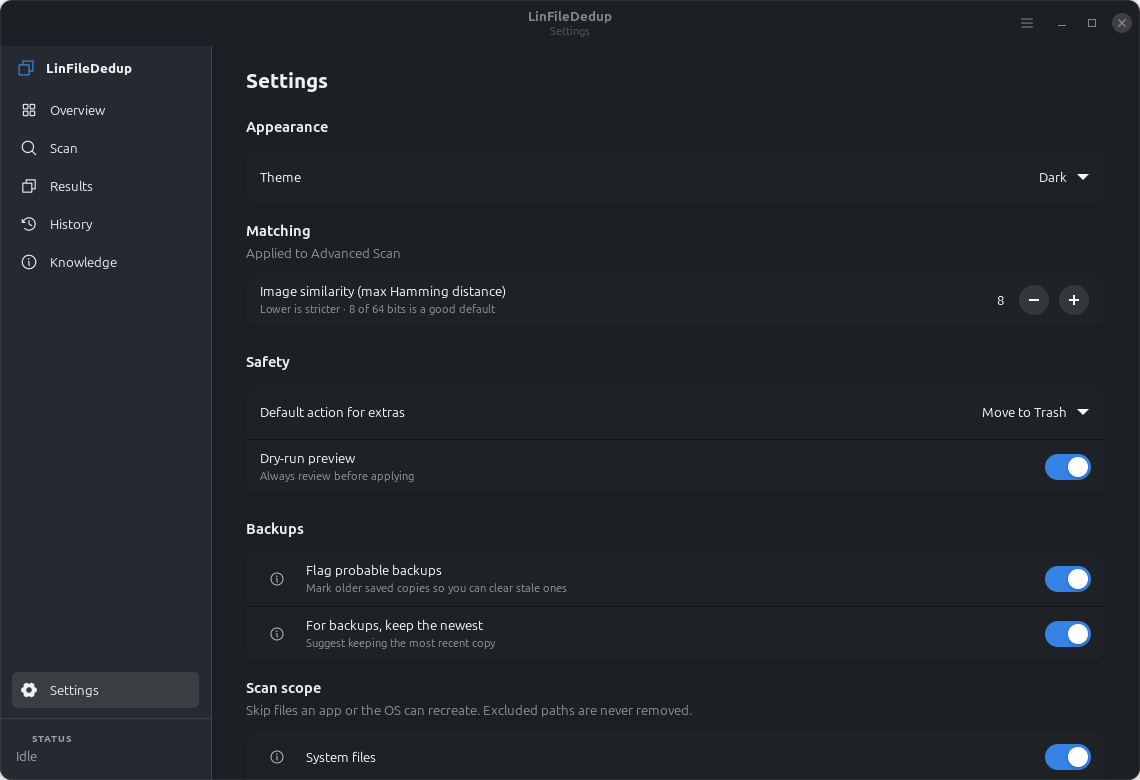
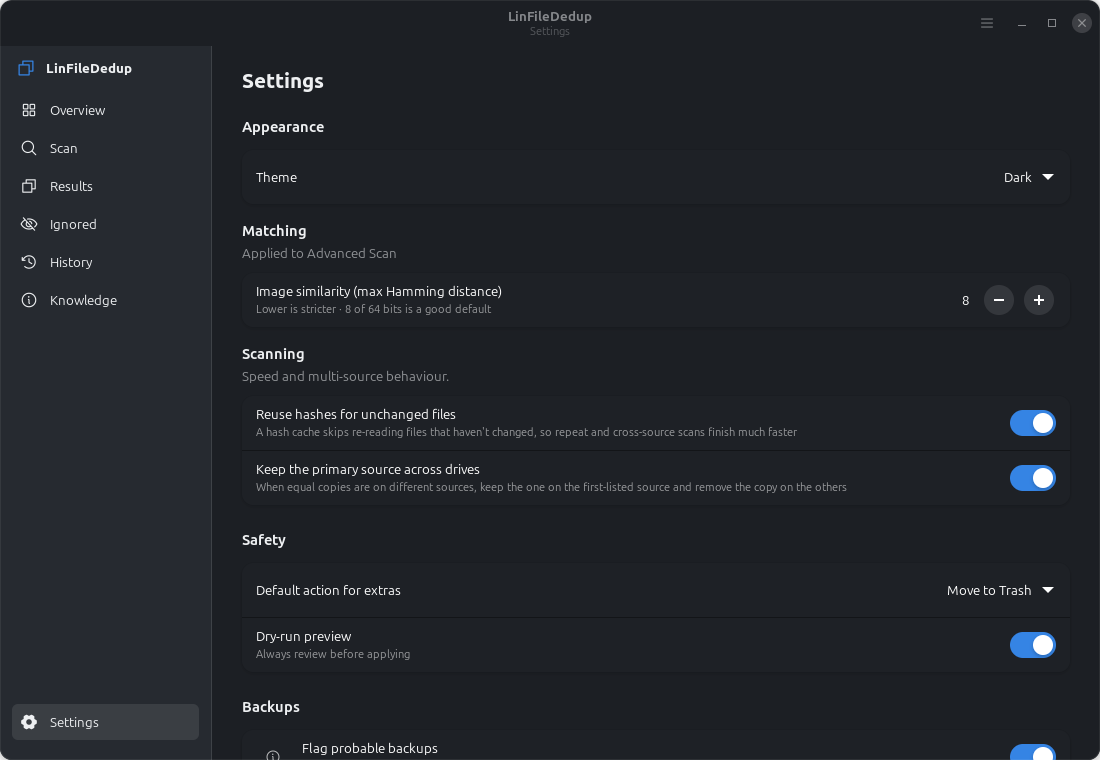
Settings: expose hash-cache and keep-primary-source toggles; Scan-page mockup
- New "Scanning" group in Settings: "Reuse hashes for unchanged files"
  (hash cache) and "Keep the primary source across drives", both default
  on. settings.use_hash_cache / settings.keep_primary_source flow into
  ScanOptions; the scanner only biases the keeper to the primary source
  when enabled.
- docs/mockups/scan-page.html: the full latest Scan page (multi-source
  setup + per-source ring list); referenced from the README. Refreshed the
  settings screenshot. Test: keep_primary_source=False falls back to the
  normal keeper policy.

diff --git a/docs/mockups/scan-page.html b/docs/mockups/scan-page.html
@@ -1,0 +1,164 @@
+<title>Scan Page</title>
+<meta name="description" content="Mockup of the latest LinFileDedup Scan page — multi-source setup and the per-source scanning ring list.">
+<style>
+  :root{
+    color-scheme: dark;
+    --bg:#1c1f24; --card:#1e2126; --card2:#24272e; --raise:#2a2e35; --sidebar:#262a30;
+    --line:rgba(255,255,255,.09); --line2:rgba(255,255,255,.14);
+    --fg:#eef0f2; --dim:#9aa0ab; --mut:#6f7781;
+    --accent:#3584e4; --accent2:#78aeea; --green:#2ec27e; --red:#fe3b4e; --orange:#ff9e2c;
+    --mono:"JetBrains Mono",ui-monospace,"Roboto Mono",monospace; --sans:"Inter",system-ui,"Cantarell",sans-serif;
+  }
+  *{box-sizing:border-box}
+  body{margin:0;background:var(--bg);color:var(--fg);font-family:var(--sans);line-height:1.5}
+  .wrap{max-width:1000px;margin:0 auto;padding-block:30px;padding-inline:16px}
+  .kicker{font-size:12px;letter-spacing:.14em;text-transform:uppercase;color:var(--accent);font-weight:700;margin:0 0 6px}
+  h1{font-size:26px;font-weight:800;margin:0 0 6px}
+  .sub{color:var(--dim);margin:0;font-size:15px}
+  .label{font-size:12px;letter-spacing:.1em;text-transform:uppercase;color:var(--mut);font-weight:700;margin:26px 0 8px}
+
+  .app{display:grid;grid-template-columns:150px 1fr;border:1px solid var(--line);border-radius:14px;overflow:hidden;background:var(--card)}
+  .side{background:var(--sidebar);padding:14px 10px;border-right:1px solid var(--line);font-size:13px}
+  .brand{font-weight:800;margin:4px 8px 14px;display:flex;align-items:center;gap:8px}
+  .brand .dot{width:16px;height:16px;border-radius:5px;background:linear-gradient(135deg,#4a90e6,#2f74cf)}
+  .side a{display:flex;gap:9px;align-items:center;padding:7px 9px;border-radius:7px;color:var(--dim);text-decoration:none;margin-bottom:2px}
+  .side a.on{background:rgba(255,255,255,.07);color:var(--fg)}
+  .main{padding:18px 20px}
+  .ptitle{font-size:22px;font-weight:800;margin:0 0 2px}
+  .pnote{color:var(--dim);font-size:13px;margin:0 0 16px}
+
+  .toolbar{display:flex;align-items:center;gap:10px;margin-bottom:16px}
+  .seg{display:inline-flex;border:1px solid var(--line2);border-radius:8px;overflow:hidden}
+  .seg b{padding:6px 12px;font-size:13px;background:var(--raise)}
+  .seg span{padding:6px 12px;font-size:13px;color:var(--dim)}
+  .spacer{flex:1}
+  .btn{border:1px solid var(--line2);background:var(--raise);color:var(--fg);border-radius:8px;padding:7px 14px;font-size:13px;font-weight:600}
+  .btn.primary{background:var(--accent);border-color:transparent;color:#fff}
+  .btn.stop{background:var(--red);border-color:transparent;color:#fff}
+
+  .panel{border:1px solid var(--line);border-radius:12px;background:var(--card2);padding:16px;margin-bottom:14px}
+  .panel h3{margin:0 0 3px;font-size:14px}
+  .panel .hint{color:var(--dim);font-size:12.5px;margin:0 0 10px}
+  .src{display:grid;grid-template-columns:28px 1fr auto auto;align-items:center;gap:12px;padding:10px 4px;border-top:1px solid var(--line)}
+  .src:first-of-type{border-top:0}
+  .src .ic{width:28px;height:28px;border-radius:8px;display:grid;place-items:center;background:rgba(255,255,255,.06);font-size:14px}
+  .src .nm{font-family:var(--mono);font-size:12.5px}
+  .src .meta{color:var(--mut);font-size:12px}
+  .src .rm{color:var(--dim);font-size:12px;font-weight:600}
+  .addrow{display:flex;gap:8px;margin-top:10px}
+  .opt{display:flex;align-items:center;gap:12px;padding:12px 2px;border-top:1px solid var(--line)}
+  .opt:first-child{border-top:0}
+  .opt .t{flex:1}.opt .t b{font-weight:600;font-size:14px}.opt .t small{display:block;color:var(--dim);font-size:12px}
+  .sw{width:40px;height:22px;border-radius:999px;background:var(--accent);position:relative;flex:0 0 40px}
+  .sw.off{background:#3a3f47}.sw i{position:absolute;top:2px;left:20px;width:18px;height:18px;border-radius:50%;background:#fff}
+  .sw.off i{left:2px}
+  .ff{display:flex;align-items:center;gap:12px;margin-top:4px}
+  .chk{width:17px;height:17px;border-radius:4px;background:var(--accent);display:inline-grid;place-items:center;color:#fff;font-size:11px}
+  .ext{flex:1;background:#15171b;border:1px solid var(--line2);border-radius:7px;padding:7px 10px;color:var(--mut);font-size:12.5px}
+
+  /* ring list (scanning) */
+  .row{display:grid;grid-template-columns:96px 1fr;gap:16px;align-items:center;padding:14px;border:1px solid var(--line);border-radius:12px;background:var(--card2);margin-bottom:12px}
+  .ring{width:84px;height:84px;position:relative;justify-self:center}
+  .ring svg{transform:rotate(-90deg)} .ring .pct{position:absolute;inset:0;display:grid;place-items:center;font-size:17px;font-weight:700}
+  .ring .pct small{font-size:11px;color:var(--dim)}
+  .col{min-width:0}
+  .path{font-family:var(--mono);font-size:12.5px;color:var(--fg);white-space:nowrap;overflow:hidden;text-overflow:ellipsis}
+  .name{font-family:var(--mono);font-size:12.5px;color:var(--fg);margin:1px 0 0;white-space:nowrap;overflow:hidden;text-overflow:ellipsis}
+  .name .x{color:var(--orange)}
+  .bar{height:2px;width:50%;border-radius:2px;background:#15171b;overflow:hidden;position:relative;margin:8px 0 6px}
+  .bar i{position:absolute;top:0;bottom:0;width:34%;border-radius:2px;background:linear-gradient(90deg,#2f74cf,#78aeea)}
+  .bar.fast i{animation:scan 1s linear infinite}.bar.slow i{width:24%;animation:scan 3.2s linear infinite}
+  .bar.full i{position:static;width:100%;animation:none}
+  @keyframes scan{0%{left:-34%}100%{left:100%}}
+  .note{color:var(--mut);font-size:11.5px}
+  .done .name{color:var(--green)}
+  .cap{color:var(--mut);font-size:12px;margin-top:6px}
+  .mini{font-size:11px;color:var(--mut);margin-top:26px;border-top:1px solid var(--line);padding-top:14px}
+</style>
+
+<div class="wrap">
+  <p class="kicker">LinFileDedup · Mockup</p>
+  <h1>The Scan page — latest layout</h1>
+  <p class="sub">A preview for review — <b>not the live app</b>. Shows the multi-source setup and the per-source scanning ring list with the latest styling.</p>
+
+  <svg width="0" height="0"><defs>
+    <linearGradient id="grad" x1="0" y1="0" x2="1" y2="1"><stop offset="0" stop-color="#fe3b4e"/><stop offset="1" stop-color="#ff9e2c"/></linearGradient>
+  </defs></svg>
+
+  <p class="label">① Setup — choose sources &amp; options</p>
+  <div class="app">
+    <nav class="side">
+      <div class="brand"><span class="dot"></span>LinFileDedup</div>
+      <a>▦ Overview</a><a class="on">🔍 Scan</a><a>▤ Results</a><a>⦸ Ignored</a><a>↺ History</a><a>ⓘ Knowledge</a>
+    </nav>
+    <div class="main">
+      <div class="toolbar">
+        <div class="seg"><b>Simple Scan</b><span>Advanced Scan</span></div>
+        <span class="spacer"></span>
+        <button class="btn primary">Start scan</button>
+      </div>
+      <div class="panel">
+        <h3>Sources to scan</h3>
+        <p class="hint">Duplicates are found across every source — the copy on the first-listed (primary) source is kept.</p>
+        <div class="src"><span class="ic">🖿</span><span class="nm">/home/user</span><span class="meta">primary · 1.9 TB</span><span class="rm">Remove</span></div>
+        <div class="src"><span class="ic">🖴</span><span class="nm">/media/user/USB-BACKUP</span><span class="meta">removable</span><span class="rm">Remove</span></div>
+        <div class="src"><span class="ic">🖴</span><span class="nm">/mnt/photos-external</span><span class="meta">drive</span><span class="rm">Remove</span></div>
+        <div class="addrow"><button class="btn">＋ Add source…</button><button class="btn">Add drive…</button></div>
+      </div>
+      <div class="panel">
+        <div class="opt"><div class="t"><b>Find image near-duplicates</b><small>Perceptual hash, within the similarity threshold</small></div><span class="sw"><i></i></span></div>
+        <div class="opt"><div class="t"><b>Include hidden files</b><small>Dotfiles and dot-folders</small></div><span class="sw off"><i></i></span></div>
+        <div class="opt"><div class="t"><b>Minimum file size (MB)</b></div><span style="font-variant-numeric:tabular-nums;color:var(--dim)">1  − +</span></div>
+      </div>
+      <div class="panel">
+        <h3>File types to scan</h3>
+        <div class="ff"><span class="chk">✓</span><b style="font-size:13px">All Files</b><span style="color:var(--dim);font-size:12.5px">Enter Extension</span><span class="ext">.bak, .csv, .txt, .idx</span><span style="color:var(--dim)">ⓘ</span></div>
+      </div>
+    </div>
+  </div>
+
+  <p class="label">② Scanning — a ring per source (all stay until the whole scan finishes, then fade together)</p>
+  <div class="app">
+    <nav class="side">
+      <div class="brand"><span class="dot"></span>LinFileDedup</div>
+      <a>▦ Overview</a><a class="on">🔍 Scan</a><a>▤ Results</a><a>⦸ Ignored</a><a>↺ History</a><a>ⓘ Knowledge</a>
+    </nav>
+    <div class="main">
+      <div class="toolbar"><div class="ptitle">Scanning 3 sources…</div><span class="spacer"></span><button class="btn stop">Stop</button></div>
+
+      <div class="row done">
+        <div class="ring"><svg width="84" height="84" viewBox="0 0 84 84"><circle cx="42" cy="42" r="35" fill="none" stroke="rgba(255,255,255,.1)" stroke-width="7"/><circle cx="42" cy="42" r="35" fill="none" stroke="#34cd88" stroke-width="7" stroke-linecap="round" stroke-dasharray="220" stroke-dashoffset="0"/></svg><div class="pct">100<small>%</small></div></div>
+        <div class="col">
+          <div class="path">/home/user/Pictures/2026_05_19/PXL_20260515_091432.jpg</div>
+          <div class="name">Done — 58,310 files scanned</div>
+          <div class="bar full"><i style="background:#2bbd78"></i></div>
+          <div class="note">/home/user · complete</div>
+        </div>
+      </div>
+
+      <div class="row">
+        <div class="ring"><svg width="84" height="84" viewBox="0 0 84 84"><circle cx="42" cy="42" r="35" fill="none" stroke="rgba(255,255,255,.1)" stroke-width="7"/><circle cx="42" cy="42" r="35" fill="none" stroke="url(#grad)" stroke-width="7" stroke-linecap="round" stroke-dasharray="220" stroke-dashoffset="70"/></svg><div class="pct">68<small>%</small></div></div>
+        <div class="col">
+          <div class="path">/media/user/USB-BACKUP/DCIM/Camera/PXL_20260515_135337617.MP.mp4</div>
+          <div class="name">PXL_20260515_135337617.MP<span class="x">.mp4</span></div>
+          <div class="bar slow"><i></i></div>
+          <div class="note">Note: large files may take several minutes to scan…</div>
+        </div>
+      </div>
+
+      <div class="row">
+        <div class="ring"><svg width="84" height="84" viewBox="0 0 84 84"><circle cx="42" cy="42" r="35" fill="none" stroke="rgba(255,255,255,.1)" stroke-width="7"/><circle cx="42" cy="42" r="35" fill="none" stroke="url(#grad)" stroke-width="7" stroke-linecap="round" stroke-dasharray="220" stroke-dashoffset="180"/></svg><div class="pct">18<small>%</small></div></div>
+        <div class="col">
+          <div class="path">/mnt/photos-external/2024/thumbs/IMG_0412.jpg</div>
+          <div class="name">IMG_0412<span class="x">.jpg</span></div>
+          <div class="bar fast"><i></i></div>
+          <div class="note">Note: large files may take several minutes to scan…</div>
+        </div>
+      </div>
+
+      <p class="cap">Ring % centred · file name in the same mono font as the path (extension in orange) · 2px blue activity bar at half width.</p>
+    </div>
+  </div>
+
+  <p class="mini">Mockup only. Matches the live Scan page. Settings now exposes two toggles that affect this: <b>Reuse hashes for unchanged files</b> (hash cache, faster re-scans) and <b>Keep the primary source across drives</b>. Design notes: <code>docs/CONCEPT-MULTISOURCE.md</code>, <code>docs/CONCEPT-SCAN-RINGS.md</code>.</p>
+</div>

diff --git a/src/linfilededuplication/ui/pages/settings.py b/src/linfilededuplication/ui/pages/settings.py
@@ -40,6 +40,25 @@ class SettingsPage(BasePage):
         matching.add(self.hamming_row)
         self.add(matching)
 
+        scanning = Adw.PreferencesGroup(
+            title=_("Scanning"),
+            description=_("Speed and multi-source behaviour."))
+        self.cache_row = Adw.SwitchRow(
+            title=_("Reuse hashes for unchanged files"),
+            subtitle=_("A hash cache skips re-reading files that haven't changed, so repeat and "
+                       "cross-source scans finish much faster"))
+        self.cache_row.set_active(getattr(s, "use_hash_cache", True))
+        self.cache_row.connect("notify::active", self._on_cache)
+        scanning.add(self.cache_row)
+        self.primary_row = Adw.SwitchRow(
+            title=_("Keep the primary source across drives"),
+            subtitle=_("When equal copies are on different sources, keep the one on the "
+                       "first-listed source and remove the copy on the others"))
+        self.primary_row.set_active(getattr(s, "keep_primary_source", True))
+        self.primary_row.connect("notify::active", self._on_primary)
+        scanning.add(self.primary_row)
+        self.add(scanning)
+
         safety = Adw.PreferencesGroup(title=_("Safety"))
         self.action_row = Adw.ComboRow(title=_("Default action for extras"))
         self.action_row.set_model(Gtk.StringList.new([_("Move to Trash"), _("Hard-link")]))
@@ -100,6 +119,14 @@ class SettingsPage(BasePage):
 
     def _on_dry(self, *_a) -> None:
         self.app.settings.dry_run = self.dry_row.get_active()
+        self._save()
+
+    def _on_cache(self, *_a) -> None:
+        self.app.settings.use_hash_cache = self.cache_row.get_active()
+        self._save()
+
+    def _on_primary(self, *_a) -> None:
+        self.app.settings.keep_primary_source = self.primary_row.get_active()
         self._save()
 
     def _on_backup(self, *_a) -> None:

diff --git a/tests/core/test_scanner.py b/tests/core/test_scanner.py
@@ -150,3 +150,19 @@ def test_per_source_progress_events_emitted(tmp_path):
     # every source settles at 100% (done == total) by the end
     final = {e.source: e for e in per_source if e.total and e.done == e.total}
     assert {str(a), str(b)} <= set(final)
+
+
+def test_keep_primary_source_can_be_disabled(tmp_path):
+    a = tmp_path / "disk"; a.mkdir()
+    b = tmp_path / "backup"; b.mkdir()
+    data = b"same" * 500
+    # make the copy on the SECOND source newer-looking by name so, without source preference,
+    # the primary isn't automatically the keeper
+    (a / "photo (1).jpg").write_bytes(data)      # derived name on primary
+    (b / "photo.jpg").write_bytes(data)          # original name on backup
+    opts = ScanOptions(roots=[str(a), str(b)], find_images=False, min_size=1,
+                       keep_primary_source=False)
+    groups = [e.group for e in _collect(opts) if isinstance(e, events.GroupFound)]
+    assert len(groups) == 1
+    # with source preference OFF, the non-derived name wins -> the backup copy is kept
+    assert groups[0].keeper.path.startswith(str(b))

diff --git a/src/linfilededuplication/core/options.py b/src/linfilededuplication/core/options.py
@@ -20,6 +20,7 @@ class ScanOptions:
     hamming: int = 8                  # max perceptual Hamming distance (0-64)
     verify_bytes: bool = True         # byte-for-byte confirm before an exact group is final
     use_hash_cache: bool = True       # reuse cached hashes for unchanged files (fast re-scans)
+    keep_primary_source: bool = True  # across drives, keep the copy on the first-listed source
     detect_backups: bool = True       # flag probable backup copies
     keep_newest_backup: bool = True   # in a backup group, keep the newest
     exclusions: list[str] = field(default_factory=list)   # exclusion preset keys

diff --git a/src/linfilededuplication/core/scanner.py b/src/linfilededuplication/core/scanner.py
@@ -228,7 +228,7 @@ def scan(opts: ScanOptions, emit: Emit, cancel: threading.Event | None = None) -
     # total units of work for an accurate percentage: every file is "scanned" once, and image
     # files get one more pass (perceptual hashing).
     total_work = max(1, total_files + (len(images) if do_images else 0))
-    preferred = roots[:1]                       # keep the primary (first) source across drives
+    preferred = roots[:1] if getattr(opts, "keep_primary_source", True) else []
     emit(events.Progress(0, 0, "walk", f"Found {total_files:,} files"))   # caption only
 
     cache = None

diff --git a/src/linfilededuplication/ui/pages/scan.py b/src/linfilededuplication/ui/pages/scan.py
@@ -408,6 +408,7 @@ class ScanPage(BasePage):
             min_size=max(1, int(self.min_row.get_value()) * 1_000_000),
             hamming=s.hamming,
             use_hash_cache=getattr(s, "use_hash_cache", True),
+            keep_primary_source=getattr(s, "keep_primary_source", True),
             detect_backups=s.detect_backups,
             keep_newest_backup=s.keep_newest_backup,
             exclusions=list(s.exclusions),

diff --git a/src/linfilededuplication/config/settings.py b/src/linfilededuplication/config/settings.py
@@ -29,6 +29,7 @@ class Settings:
     min_size_mb: int = 1
     hamming: int = 8
     use_hash_cache: bool = True       # reuse cached hashes for unchanged files (fast re-scans)
+    keep_primary_source: bool = True  # across drives, keep the copy on the first-listed source
     default_action: str = "trash"   # trash | hardlink
     dry_run: bool = True
     detect_backups: bool = True

diff --git a/changelog.md b/changelog.md
@@ -56,4 +56,5 @@ Append-only. Format: `| ISO-8601 datetime | description |`.
 | 2026-10-03 | Scan page per-source display redesigned as a list (ring left; full path / file name / 2px blue-gradient half-width activity bar / "large files may take several minutes" note on the right) so paths fit and large files never look hung (`docs/CONCEPT-SCAN-RINGS.md`). Ring percentage text centred on its ink box. |
 | 2026-10-03 | Scan History: `config/history.py` records each confirmed removal (sources, before/after bytes, freed, files, ok); the History page shows the last operation with before/after bars + "You saved N GB" and earlier operations below. |
 | 2026-10-03 | Hash cache (`core/hashcache.py`): persistent `{dev,ino,size,mtime}→sha256` store; unchanged files are reused (not re-read) on repeat/cross-source scans, invalidated after deletions/hard-links. Byte-verify remains the safety net. `docs/CONCEPT-MULTISOURCE.md §4b`. |
+| 2026-10-03 | Settings: a Scanning group with two toggles — Reuse hashes for unchanged files (hash cache) and Keep the primary source across drives — both default on (`settings.use_hash_cache`, `settings.keep_primary_source`; `ScanOptions` honours them). Scan-page mockup `docs/mockups/scan-page.html`. |
 | 2026-10-03 | Uniform CC BY-NC 4.0 license across the public lin-* apps; Phosphor MIT license added to apps that bundle the icons and missing it. (Repo-ops; see git history of the other repos.) |

diff --git a/README.md b/README.md
@@ -83,6 +83,7 @@ listed below (successes and failures).
 
 The design is captured in living HTML mockups under [`docs/mockups/`](docs/mockups/):
 
+- [`scan-page.html`](docs/mockups/scan-page.html) — the full latest Scan page (multi-source setup + per-source ring list).
 - [`scan-ring-list.html`](docs/mockups/scan-ring-list.html) — the per-source scan display (ring + path/file/activity bar).
 - [`multisource-scan.html`](docs/mockups/multisource-scan.html) — multi-source scanning, per-source progress, and History.
 - [`results-spotcheck-proposals.html`](docs/mockups/results-spotcheck-proposals.html) — Results & SpotCheck proposals.
